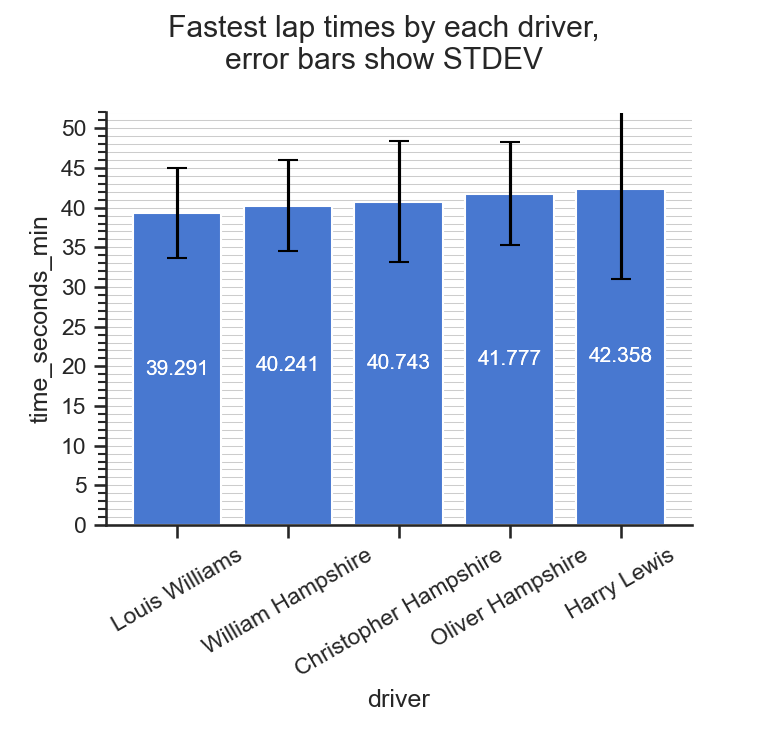
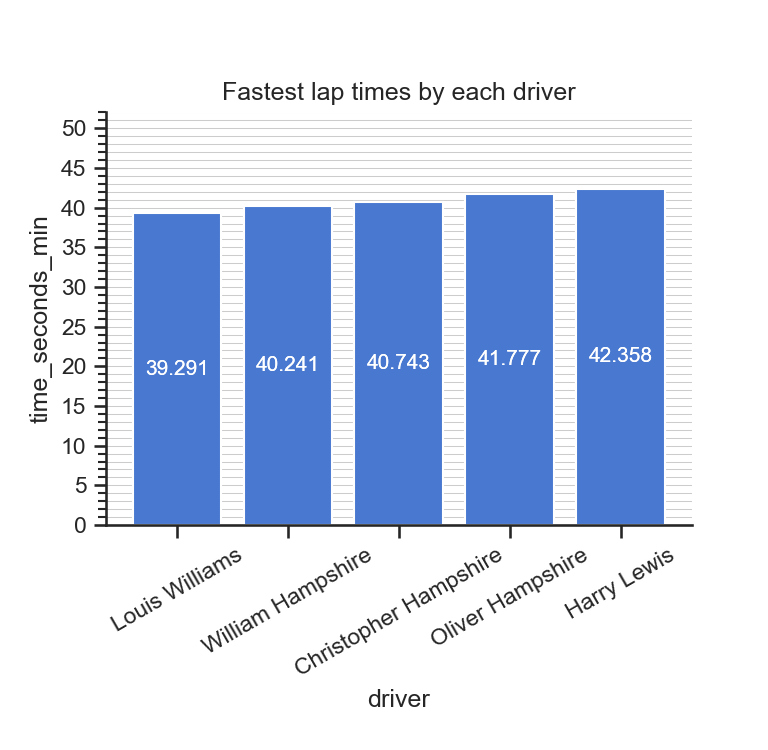
Updated

diff --git a/main.py b/main.py
@@ -76,7 +76,7 @@ def plot_basic_graphs(heats_df: DF, cwd: str) -> None:
 
     # Add error bars manually using the standard deviations
     ax = g.facet_axis(0, 0)  # Get the axis object
-    ax.bar(laps_data.index, laps_data['time_seconds_min'], yerr=laps_data['time_seconds_stdev'], capsize=5)
+    ax.bar(laps_data.index, laps_data['time_seconds_min'])
 
     for ax in g.axes.flat:
         ax.grid(True, which='both', axis='y', linewidth=0.5)
@@ -89,7 +89,7 @@ def plot_basic_graphs(heats_df: DF, cwd: str) -> None:
         ax.annotate(f'{p.get_height():.3f}', (x, y),
                     ha='center', va='center', xytext=(0, 0), textcoords='offset points', fontsize=10, color='white')
 
-    plt.suptitle("Fastest lap times by each driver,\nerror bars show STDEV")
+    plt.title("Fastest lap times by each driver")
     plt.subplots_adjust(top=0.85, right=0.9, bottom=0.3)
     ticks = np.arange(0, 100, 5)
     plt.yticks(ticks)
